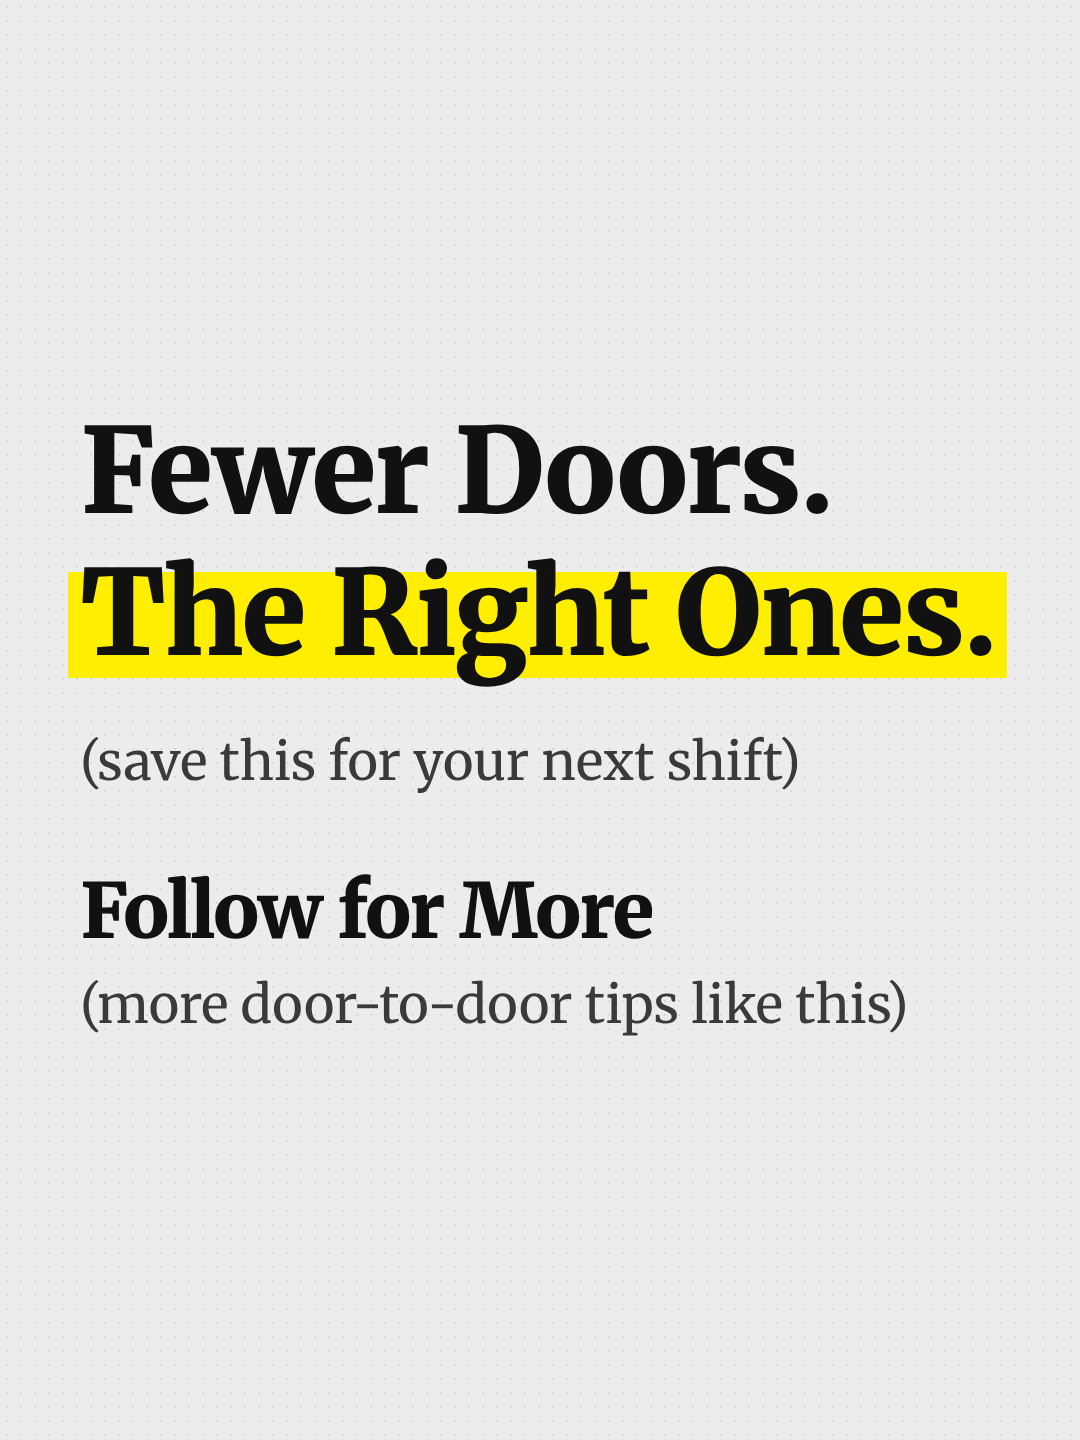
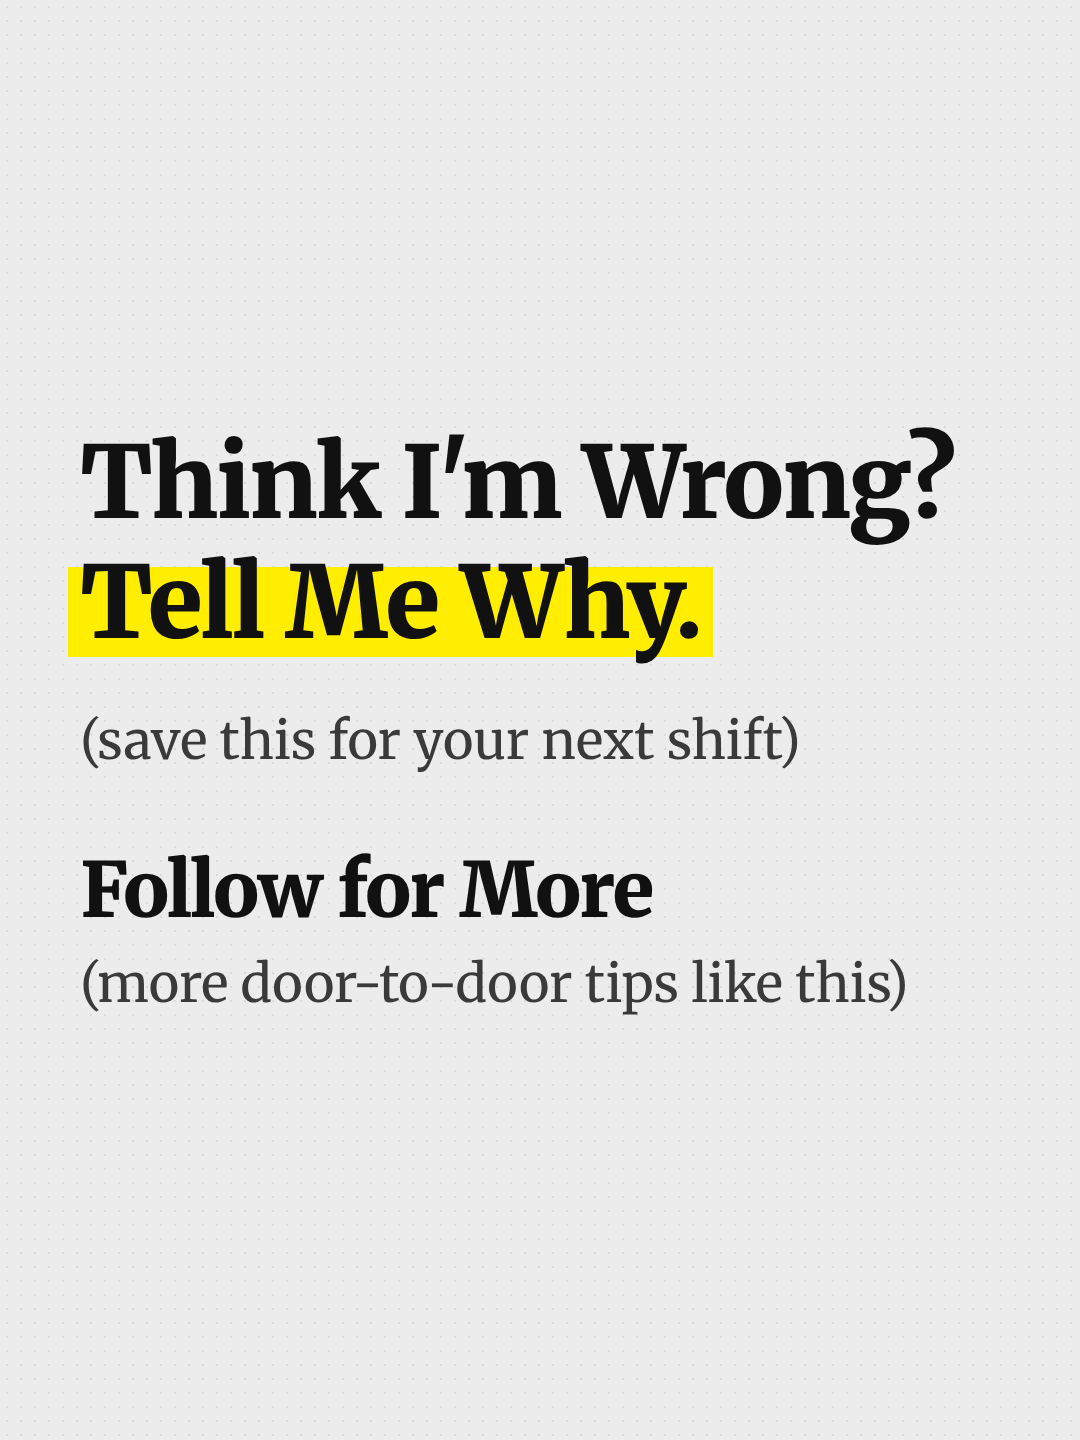
more doors carousel v2: question hook, plain map, question close
Claude-Session: https://claude.ai/code/session_01EVxDagMumu1dzbEEzpRUBn

Changed region(s): [[0.0611, 0.2812, 0.9472, 0.5625], [0.0611, 0.5938, 0.8556, 0.7188]]

diff --git a/video_research/content_kit/edits/more_doors_slides/hook.html b/video_research/content_kit/edits/more_doors_slides/hook.html
@@ -4,15 +4,15 @@
 html,body{margin:0;width:1080px;height:1440px;overflow:hidden;font-family:MW;color:#111;
  background:#ececec radial-gradient(#d9d9d9 1.2px,transparent 1.3px) 0 0/14px 14px}
 .w{position:absolute;left:80px;right:60px;top:50%;transform:translateY(-50%)}
-.h{font-weight:900;font-size:118px;line-height:1.2;letter-spacing:-2px}
+.h{font-weight:900;font-size:100px;line-height:1.2;letter-spacing:-2px}
 /* marker-style highlight: sits on the lower 70% of the letters, a little past each side */
 .y{background:linear-gradient(to bottom,transparent 22%,#FFEE00 22%,#FFEE00 94%,transparent 94%);padding:0 12px;margin:0 -12px;
    -webkit-box-decoration-break:clone;box-decoration-break:clone}
 .s{font-weight:400;font-size:52px;line-height:1.3;margin-top:44px;color:#3a3a3a}
 .hd{position:absolute;left:0;right:0;bottom:90px;text-align:center;font-weight:400;font-size:34px;color:#8a8a8a}
 </style></head><body><div class="w">
-<div class="h">Knocking<br><span class="y">More Doors</span><br>Is Making You<br><span class="y">Less Money</span></div>
-<div class="s">(it took me way too long to see why)</div>
+<div class="h"><span style="font-size:.78em">You Don't See It, But</span><br>Knocking<br><span class="y">More Doors</span><br>Is Making You<br><span class="y">Less Money</span></div>
+<div class="s">(the reps who knock the most rarely sell the most)</div>
 </div><div class="hd" id="hd"></div>
 <script>const Q=new URLSearchParams(location.search); if(Q.get('handle')) document.getElementById('hd').textContent=Q.get('handle');</script>
 </body></html>

diff --git a/video_research/content_kit/edits/more_doors_slides/close.html b/video_research/content_kit/edits/more_doors_slides/close.html
@@ -4,14 +4,14 @@
 html,body{margin:0;width:1080px;height:1440px;overflow:hidden;font-family:MW;color:#111;
  background:#ececec radial-gradient(#d9d9d9 1.2px,transparent 1.3px) 0 0/14px 14px}
 .w{position:absolute;left:80px;right:60px;top:50%;transform:translateY(-50%)}
-.h{font-weight:900;font-size:118px;line-height:1.2;letter-spacing:-2px}
+.h{font-weight:900;font-size:100px;line-height:1.2;letter-spacing:-2px}
 /* marker-style highlight: sits on the lower 70% of the letters, a little past each side */
 .y{background:linear-gradient(to bottom,transparent 22%,#FFEE00 22%,#FFEE00 94%,transparent 94%);padding:0 12px;margin:0 -12px;
    -webkit-box-decoration-break:clone;box-decoration-break:clone}
 .s{font-weight:400;font-size:52px;line-height:1.3;margin-top:44px;color:#3a3a3a}
 .hd{position:absolute;left:0;right:0;bottom:90px;text-align:center;font-weight:400;font-size:34px;color:#8a8a8a}
 </style></head><body><div class="w">
-<div class="h">Fewer Doors.<br><span class="y">The Right Ones.</span></div>
+<div class="h">Think I'm Wrong?<br><span class="y">Tell Me Why.</span></div>
 <div class="s">(save this for your next shift)</div>
 <div class="h" style="font-size:76px;margin-top:70px">Follow for More</div>
 <div class="s" style="margin-top:14px">(more door-to-door tips like this)</div>
